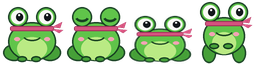
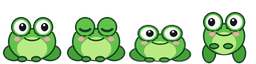
TRC Tune Loader 0.18.0

Changed region(s): [[0.2812, 0.0938, 0.75, 0.6562], [0.0312, 0.0938, 0.25, 0.5938], [0.7812, 0.0312, 1.0, 0.5]]

diff --git a/src/TRCTuneLoaderMod.SpeedTraps.cs b/src/TRCTuneLoaderMod.SpeedTraps.cs
@@ -415,6 +415,7 @@ namespace TRC.TuneLoader {
 				DrawShareTraps();
 			}
 
+			EnsureTrapList();
 			GUILayout.BeginVertical(Theme.Card, GUILayout.ExpandHeight(true));
 			trapScroll_ = GUILayout.BeginScrollView(trapScroll_);
 			if (map_ == null) {
@@ -422,18 +423,16 @@ namespace TRC.TuneLoader {
 			} else if (mapTraps_.Count == 0) {
 				GUILayout.Label("No speed traps on this map yet. Press New speed trap, stop on the road where you want one, and place it.", Theme.Small);
 			}
-			var groups = mapTraps_.GroupBy(t => t.Group, StringComparer.OrdinalIgnoreCase)
-				.OrderBy(g => g.Key.Length == 0 ? 1 : 0).ThenBy(g => g.Key, StringComparer.OrdinalIgnoreCase);
-			foreach (var group in groups) {
-				List<SpeedTrap> traps = group.OrderBy(t => SpeedTrap.NumberOf(t.Name)).ThenBy(t => t.Name, StringComparer.OrdinalIgnoreCase).ToList();
-				if (group.Key.Length == 0 && groups.Count() == 1) {
+			foreach (TrapGroup group in trapGroups_) {
+				List<SpeedTrap> traps = group.Traps;
+				if (group.Key.Length == 0 && trapGroups_.Count == 1) {
 					// Nothing named into groups yet: just the list.
 					traps.ForEach(DrawTrapRow);
 					continue;
 				}
 				string title = group.Key.Length == 0 ? "Other speed traps" : group.Key;
 				bool open = trapGroupsOpen_.Contains(title) || (trapEditing_ != null && traps.Contains(trapEditing_));
-				float best = traps.SelectMany(t => trapRecords_.Where(r => r.TrapKey == t.Key)).Select(r => r.Kmh).DefaultIfEmpty(0f).Max();
+				float best = group.Best;
 				if (NavButton($"<b>{title}</b>  <color={Theme.MutedHex}>{traps.Count} trap(s){(best > 0 ? $" · fastest {best:0} km/h" : "")}</color>", Theme.Row)) {
 					if (!trapGroupsOpen_.Remove(title)) {
 						trapGroupsOpen_.Add(title);
@@ -469,9 +468,51 @@ namespace TRC.TuneLoader {
 			GUILayout.EndVertical();
 		}
 
+		// The page's list, made again only when the traps or the records change, or once a second (bskftw, Nov 6: the tab
+		// lagged; it grouped, sorted and searched every record for every trap several times a frame).
+		private sealed class TrapGroup {
+			public string Key = "";
+			public List<SpeedTrap> Traps;
+			public float Best;
+		}
+
+		private List<TrapGroup> trapGroups_ = new List<TrapGroup>();
+		private readonly Dictionary<string, float> trapBest_ = new Dictionary<string, float>(StringComparer.Ordinal);
+		private readonly Dictionary<string, float> trapBestCar_ = new Dictionary<string, float>(StringComparer.Ordinal);
+		private List<SpeedTrap> trapListFor_;
+		private int trapListTraps_ = -1, trapListRecords_ = -1;
+		private float trapListAt_ = -100f;
+
+		private void EnsureTrapList() {
+			if (trapListFor_ == mapTraps_ && trapListTraps_ == mapTraps_.Count && trapListRecords_ == trapRecords_.Count && Time.unscaledTime - trapListAt_ < 1f) {
+				return;
+			}
+			trapListFor_ = mapTraps_;
+			trapListTraps_ = mapTraps_.Count;
+			trapListRecords_ = trapRecords_.Count;
+			trapListAt_ = Time.unscaledTime;
+			trapBest_.Clear();
+			trapBestCar_.Clear();
+			foreach (SpeedTrapRecord r in trapRecords_) {
+				if (!trapBest_.TryGetValue(r.TrapKey, out float best) || r.Kmh > best) {
+					trapBest_[r.TrapKey] = r.Kmh;
+				}
+				string car = r.TrapKey + "|" + r.CarId;
+				if (!trapBestCar_.TryGetValue(car, out float mine) || r.Kmh > mine) {
+					trapBestCar_[car] = r.Kmh;
+				}
+			}
+			trapGroups_ = mapTraps_.GroupBy(t => t.Group, StringComparer.OrdinalIgnoreCase)
+				.OrderBy(g => g.Key.Length == 0 ? 1 : 0).ThenBy(g => g.Key, StringComparer.OrdinalIgnoreCase)
+				.Select(g => {
+					List<SpeedTrap> traps = g.OrderBy(t => SpeedTrap.NumberOf(t.Name)).ThenBy(t => t.Name, StringComparer.OrdinalIgnoreCase).ToList();
+					return new TrapGroup { Key = g.Key, Traps = traps, Best = traps.Select(t => trapBest_.TryGetValue(t.Key, out float b) ? b : 0f).DefaultIfEmpty(0f).Max() };
+				}).ToList();
+		}
+
 		private void DrawTrapRow(SpeedTrap trap) {
-			float mine = trapRecords_.Where(r => r.TrapKey == trap.Key && r.CarId == pose_.CarId).Select(r => r.Kmh).DefaultIfEmpty(0f).Max();
-			float best = trapRecords_.Where(r => r.TrapKey == trap.Key).Select(r => r.Kmh).DefaultIfEmpty(0f).Max();
+			float mine = trapBestCar_.TryGetValue(trap.Key + "|" + pose_.CarId, out float m) ? m : 0f;
+			float best = trapBest_.TryGetValue(trap.Key, out float b) ? b : 0f;
 			float away = hasPose_ ? Vector3.Distance(pose_.Position, trap.Gate.Center) : 0f;
 			GUILayout.BeginHorizontal();
 			GUILayout.Label($"<b>{trap.Name}</b>  <color={Theme.MutedHex}>{(trap.Source == CourseSource.Map ? "map" : "yours")} · {trap.Gate.Width:0} m wide · {TimeAttackRun.Distance(away)} away" +

diff --git a/src/TRCTuneLoaderMod.Window.cs b/src/TRCTuneLoaderMod.Window.cs
@@ -18,9 +18,6 @@ namespace TRC.TuneLoader {
 		private static float WindowWidth => Mathf.Round(940f * (1f + (Theme.TextScale - 1f) * 0.6f));
 		private static float WindowHeight => Mathf.Round(680f * (1f + (Theme.TextScale - 1f) * 0.4f));
 		private const float StatusRefreshSeconds = 2.0f;
-		/// <summary>The main tabs. Since 0.15.0 Backups is part of My car, and Battles has its own tab (it was inside Time attack). 0.16: Regulations and Suspension.</summary>
-		private static readonly string[] TabNames = { "Home", "TRC Tunes", "Tune sets", "Players", "Mod check", "Time attack", "Battles", "Regulations", "Suspension", "Options", "About" };
-
 		// UGUI's EventSystem lives in UnityEngine.UI; found by name so the mod doesn't need that DLL.
 		private static readonly PropertyInfo CurrentEventSystem =
 			Type.GetType("UnityEngine.EventSystems.EventSystem, UnityEngine.UI")?.GetProperty("current", BindingFlags.Public | BindingFlags.Static);
@@ -260,7 +257,34 @@ namespace TRC.TuneLoader {
 			GUI.DragWindow(new Rect(0, 0, WindowWidth, 64));
 		}
 
+		// How long the open page takes to draw (all its events in a frame), logged when it's slow (bskftw, Nov 6: pages
+		// lagging; this says which one in the next bug report).
+		private readonly System.Diagnostics.Stopwatch pageWatch_ = new System.Diagnostics.Stopwatch();
+		private double pageFrameMs_, pageMs_;
+		private int pageFrame_ = -1, pageTab_ = -1;
+		private float pageSlowLoggedAt_ = -100f;
+
 		private void DrawOpenTab() {
+			if (pageFrame_ != Time.frameCount) {
+				pageMs_ = pageTab_ == tab_ ? pageMs_ * 0.9 + pageFrameMs_ * 0.1 : pageFrameMs_;
+				pageTab_ = tab_;
+				pageFrameMs_ = 0;
+				pageFrame_ = Time.frameCount;
+				if (pageMs_ > 4.0 && Time.unscaledTime - pageSlowLoggedAt_ > 30f) {
+					pageSlowLoggedAt_ = Time.unscaledTime;
+					TrcLog.Warning($"The window's page {tab_} (view {coursesView_}/{battleViewMode_}) takes {pageMs_:0.0} ms a frame to draw.");
+				}
+			}
+			pageWatch_.Restart();
+			try {
+				DrawOpenTabNow();
+			} finally {
+				pageWatch_.Stop();
+				pageFrameMs_ += pageWatch_.Elapsed.TotalMilliseconds;
+			}
+		}
+
+		private void DrawOpenTabNow() {
 			switch (tab_) {
 				case MyCarTab: DrawMyCarTab(); break;
 				case TuneSetsTab: DrawTuneSetsTab(); break;
@@ -275,7 +299,14 @@ namespace TRC.TuneLoader {
 				case SpecCarTab: DrawSpecCarPage(); break;
 				case SpecPlayersTab: DrawSpecPlayersPage(); break;
 				case BugTab: DrawBugTab(); break;
-				default: DrawAboutTab(); break;
+				case AboutTab: DrawAboutTab(); break;
+				default:
+					bool drawn = false;
+					DrawDevPage(tab_, ref drawn);
+					if (!drawn) {
+						DrawAboutTab();
+					}
+					break;
 			}
 		}
 

diff --git a/src/TRCTuneLoaderMod.Home.cs b/src/TRCTuneLoaderMod.Home.cs
@@ -15,23 +15,16 @@ namespace TRC.TuneLoader {
 	/// ledger (EventLedger) fed from runs, battles and races.
 	/// </summary>
 	public partial class TRCTuneLoaderMod {
-		private void OpenTab(int tab) {
-			tab_ = tab;
-			OnTabOpened(tab);
-		}
-
 		private const string WhatsNewPref = "whats_new_seen";
 		private const string WheelActionPref = "wheel_action";
 		private const string WheelWindowPref = "wheel_window";
 
 		/// <summary>Raise with each version that has news worth a pop-up.</summary>
-		private const string WhatsNewVersion = "0.17.1";
+		private const string WhatsNewVersion = "0.18.0";
 
 		private static readonly string[] WhatsNewLines = {
-			"<b>Specs, Check my car</b>: your car against your specs, checked as strictly as TRC spec (saved setup, live car, stance, swaps), and against each regulation: met, or what breaks it.",
-			"<b>Specs, Players</b>: everyone in the room against your specs and regulations, checked from what CarX shares of their car. A player whose mod claims a spec or regulation they're not on shows in red.",
-			"<b>My car is now TRC Tunes</b>, just for the TRC tunes. Regulations pick the <b>diff type</b> by name (Open, Welded, Viscous, Clutch type).",
-			"New in 0.17: a new menu, controller support, your own specs, manual sectors and the Ctrl + G start key. See the changelog for all of it.",
+			"<b>Traffic lab</b> (very early testing), in Tools: AI traffic on Project Dream's highways and on any track's path. In a room, one player starts it and the others press Join: everyone sees the same cars and crashes.",
+			"<b>Random speed traps</b> on any track with a path, the map's own and official ones too: the button is on each track in Tracks.",
 		};
 
 		private readonly RoomSync roomSync_ = new RoomSync();
@@ -309,12 +302,6 @@ namespace TRC.TuneLoader {
 				GUILayout.EndHorizontal();
 			}
 			GUILayout.EndVertical();
-		}
-
-		private void GoToTimeAttack(int view) {
-			tab_ = CoursesTab;
-			OnTabOpened(CoursesTab);
-			coursesView_ = view;
 		}
 
 		/// <summary>The Battles tab at a section: 0 1v1 battles, 1 races, 2 fun games, 3 ratings.</summary>

diff --git a/src/TRCTuneLoaderMod.Nav.cs b/src/TRCTuneLoaderMod.Nav.cs
@@ -81,17 +81,29 @@ namespace TRC.TuneLoader {
 						new NavPage { Name = "Fun games", Tab = BattlesTab, View = GamesSection, Note = () => OpenCount(GamesSection) },
 						new NavPage { Name = "My ratings", Tab = BattlesTab, View = RatingsSection },
 					} },
-					new NavCategory { Name = "Tools", Part = 5, Pages = new[] {
-						new NavPage { Name = "Mod check", Tab = ModCheckTab },
-						new NavPage { Name = "Suspension logger", Tab = SuspensionTab },
-						new NavPage { Name = "Options", Tab = OptionsTab },
-						new NavPage { Name = "About", Tab = AboutTab },
-						new NavPage { Name = "Report a bug", Tab = BugTab },
-					} },
+					new NavCategory { Name = "Tools", Part = 5, Pages = ToolsPages() },
 				};
 				return categories_;
 			}
 		}
+
+		private NavPage[] ToolsPages() {
+			var pages = new List<NavPage> {
+				new NavPage { Name = "Mod check", Tab = ModCheckTab },
+				new NavPage { Name = "Suspension logger", Tab = SuspensionTab },
+				new NavPage { Name = "Options", Tab = OptionsTab },
+				new NavPage { Name = "About", Tab = AboutTab },
+				new NavPage { Name = "Report a bug", Tab = BugTab },
+			};
+			AddDevPages(pages);
+			return pages.ToArray();
+		}
+
+		/// <summary>Empty in the player mod: bskftw's private builds add their own pages to Tools (the traffic lab).</summary>
+		partial void AddDevPages(List<NavPage> pages);
+
+		/// <summary>Empty in the player mod: draws a private build's own page when it's open.</summary>
+		partial void DrawDevPage(int tab, ref bool drawn);
 
 		/// <summary>Open races, tournaments or games for a Battles section ("in one" when the player is).</summary>
 		private string OpenCount(int section) {

diff --git a/src/TRCTuneLoaderMod.cs b/src/TRCTuneLoaderMod.cs
@@ -23,7 +23,7 @@ namespace TRC.TuneLoader {
 	/// </summary>
 	[KSLMeta("TRCTuneLoader", Version, "bskftw")]
 	public partial class TRCTuneLoaderMod : BaseMod {
-		public const string Version = "0.17.1";
+		public const string Version = "0.18.0";
 
 		private const string BackupsFolderName = "Backups";
 		private const float CarRefreshSeconds = 1.0f;
@@ -157,10 +157,15 @@ namespace TRC.TuneLoader {
 			} catch (Exception e) {
 				TrcLog.Error(e);
 			}
+			// Last, so the room channels above keep their places for everyone.
+			RegisterDevPackets();
 		}
 
 		/// <summary>Empty in the player mod: only a private build on bskftw's PC fills it in (map load timing).</summary>
 		partial void StartDevTools();
+
+		/// <summary>The private builds' own room messages: KSL only takes new kinds of message while the mod starts.</summary>
+		partial void RegisterDevPackets();
 
 		private void Update() {
 			sync_?.Tick();

diff --git a/src/TRCTuneLoaderMod.Courses.cs b/src/TRCTuneLoaderMod.Courses.cs
@@ -922,6 +922,15 @@ namespace TRC.TuneLoader {
 			if (course.Source == CourseSource.Custom && NavButton(editing_ == course ? "Done" : "Edit", Theme.Button)) {
 				StartEditing(editing_ == course ? null : course);
 			}
+			// Any track with a path, the map's own and official ones too (bskftw, Nov 6): opens Speed traps' random traps with it picked.
+			if (course.HasPath && course.Length > 300f && NavButton("Random speed traps", Theme.Button)) {
+				coursesView_ = 1;
+				courseResult_ = "";
+				randomTrapsOpen_ = true;
+				randomTrapsCourse_ = course.Code;
+				placingTrap_ = false;
+				trapEditing_ = null;
+			}
 			GUILayout.FlexibleSpace();
 			GUILayout.EndHorizontal();
 			if (sectorsEditing_ == course) {

diff --git a/src/Races/RaceSession.cs b/src/Races/RaceSession.cs
@@ -183,7 +183,6 @@ namespace TRC.TuneLoader {
 		private double lastCourseSent_ = double.MinValue;
 		private double lastJoin_ = double.MinValue;
 		private double lastHeardHost_;
-		private double hostSentAt_;
 		private double goHostTime_;
 		private int countdownId_;
 		private int countdownStarted_;
@@ -747,7 +746,6 @@ namespace TRC.TuneLoader {
 					RoundTrip = roundTrip;
 				}
 			}
-			hostSentAt_ = m.SentAt;
 			if (m.RaceNumber != RaceNumber) {
 				return;
 			}

diff --git a/README.md b/README.md
@@ -17,11 +17,12 @@ A KSL mod for CarX Drift Racing Online, made for TRC (Touge Racing Community). B
 | **Regulations** | For communities that tune their own cars to rules: a most power, tyre widths per weight class, no swaps, one setup. Make one, share it, and run battles, races and tournaments to it, with its own Elo. |
 | **Suspension** | Data logging like a real race team: how far each wheel compresses, the tyre's load, when it leaves the road, packing down over bumps, bottoming, and a damper speed histogram, with a live overlay. Off unless you turn it on. |
 | **Ghosts & shared runs** | Your best time attacks are kept as ghosts. Race a ghost, yours or one someone shared, with the live delta and sectors against it. Ghosts have no physics, so no slipstream. |
+| **Traffic lab (very early testing)** | AI traffic on Project Dream's highways and on any track's path, shared with everyone in the room: the same cars and the same crashes. In Tools. Expect bugs and big changes. |
 | **Speed traps, room games & ratings** | Speed traps in free roam and on courses with a floating SPEED CHECK sign, random traps on any track, speed trap races, fun games (cops and runners, tag, infected, king of the hill, highway cut-up and more), and an Elo rating, Safety Rating and license (still being tested). |
 
 ![The four parts of TRC Tune Loader](docs/images/overview.png)
 
-**Version 0.17.1** (Nov 3 2026). What changed in each version: [CHANGELOG.md](CHANGELOG.md).
+**Version 0.18.0** (Nov 6 2026). What changed in each version: [CHANGELOG.md](CHANGELOG.md).
 
 **Still in testing.** The mod is new and still being tested, so bugs will happen, especially in the newest features (see "Tested in game" below). If something goes wrong, press **Report a bug** (Home, bottom right) and send bskftw the zip it puts on your Desktop.
 
@@ -380,6 +381,19 @@ The mod writes what it does to its own log, `kino\mods\TRCTuneLoader\TRCTuneLoad
 - CarX's paint screen briefly changes some engine values, so a Check while it's open can show differences.
 - Times, battles, races and ratings are saved on your own PC only, for now. They're kept ready for the TRC server.
 
+## Traffic lab (very early testing)
+
+Tools > Traffic lab. Nothing runs until you press **Start traffic**, and stopping it removes everything.
+
+- **Highway lanes**: on Project Dream, cars drive the highway lanes around you. They come in out of sight, merge, change lanes, take exits, and go when nobody is near. Pick how busy, the speed limit, the side of the road, and **Realistic** or **Cut-up** (even speeds, always a gap through).
+- **Track paths**: on any track with a path, cars drive it one way or both ways.
+- **Crashes**: hit a car and it's knocked out of the traffic. The cars behind it go round it.
+- **In a room**: one player starts the traffic. Everyone else opens the Traffic lab page and presses **Join** next to that player's name, under "Traffic in this room". Everyone needs this version.
+
+It's very early: expect bugs, and things to change a lot.
+
+Traffic cars: "Generic passenger car pack" by Comrade1280 (https://sketchfab.com/3d-models/generic-passenger-car-pack-20f9af9b8a404d5cb022ac6fe87f21f5) and "LCT 3000 '95 - Low poly model" by Daniel Zhabotinsky (https://sketchfab.com/3d-models/lct-3000-95-low-poly-model-663a0953c038434a918cb85725c88ffa), from Sketchfab, licensed under [CC BY 4.0](https://creativecommons.org/licenses/by/4.0/). Changed for the TRC traffic: re-materialed, re-coloured and set up as traffic.
+
 ## Feature status
 
 | Feature | Since | Tested in game |
@@ -411,4 +425,5 @@ The mod writes what it does to its own log, `kino\mods\TRCTuneLoader\TRCTuneLoad
 | Start, finish and checkpoint gantries, FINISH on screen, map icons, time attack rules, sector pop-up, random speed traps, single file on narrow roads, path chevrons, smoother long lists | 0.16.1 | Partly: the gantries and signs, the tracks list, circuit paths |
 | New menu (Home cards, parts and pages), controller in the menu, player specs, manual sectors, start key | 0.17.0 | Partly: the menu, Home, Look, gantry signs, My times |
 | Specs: Check my car and Players (specs checked like TRC spec), My car renamed TRC Tunes, diff types by name | 0.17.1 | Partly: the Specs pages, Home, diff types |
+| Traffic lab (very early testing), Random speed traps on every track, smoother Speed traps page | 0.18.0 | Partly: traffic on Project Dream with four players (before room sharing was fixed) |
 

diff --git a/CHANGELOG.md b/CHANGELOG.md
@@ -2,6 +2,15 @@
 
 All versions of TRC Tune Loader, newest first. "Not tested in game yet" means the version builds and its automatic tests pass, but nobody has tried it in CarX yet.
 
+## 0.18.0 (Nov 6 2026)
+
+Not tested in game yet. The traffic lab was tried with four players on Project Dream; room sharing is fixed in this version but not tried again yet.
+
+- **Traffic lab (very early testing)**, in Tools: AI traffic on Project Dream's highways and on any track's path. Pick how busy, the speed limit, driving on the left or right, and a realistic or cut-up style. Cars merge, change lanes, take exits, and crash when you hit them. In a room, one player starts the traffic and the others press Join next to their name, so everyone sees the same cars and the same crashes. Expect bugs and big changes.
+- Traffic cars: "Generic passenger car pack" by Comrade1280 and "LCT 3000 '95 - Low poly model" by Daniel Zhabotinsky, from Sketchfab, CC BY 4.0, changed for the TRC traffic.
+- Time attack, Tracks: every track with a path has a **Random speed traps** button, the map's own and official tracks too. It opens Speed traps with that track picked.
+- Time attack, Speed traps: the page no longer lags with lots of traps and speeds saved.
+
 ## 0.17.1 (Nov 3 2026)
 
 Partly tested in game: the Specs pages, the Home cards and the diff type picker. Checking other players against your specs and regulations needs two players and passes its automatic tests.
